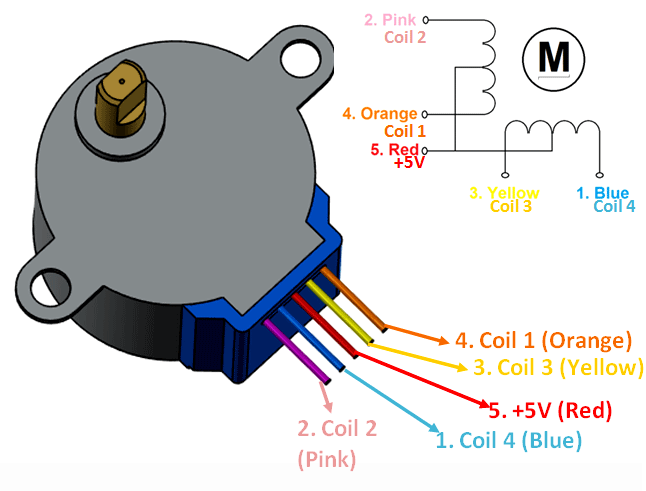
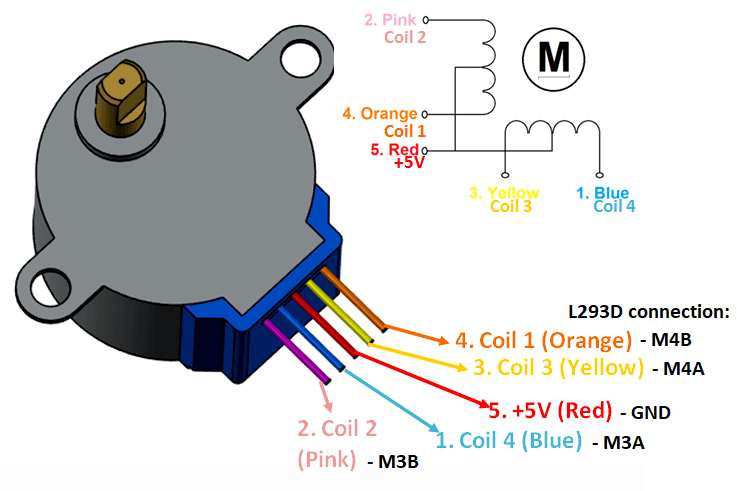
Stepper on motor shield
Repaired code for stepper
Updated motor-shield readme

diff --git a/Src/Shield_L293D.c b/Src/Shield_L293D.c
@@ -127,18 +127,18 @@ static bool _motor_595_set_stepper(int stepper_id, uint8_t nibble)
   switch(stepper_id)
   {
     case 2:
-      _m_595_value &= ~(0x01u | 0x08u | 0x02u | 0x01u);
+      _m_595_value &= ~(0x01u | 0x40u | 0x20u | 0x80u);
       if (nibble & 0x01) _m_595_value |= 0x01u;     // m3a
       if (nibble & 0x02) _m_595_value |= 0x40u;     // m3b
       if (nibble & 0x04) _m_595_value |= 0x20u;     // m4a
       if (nibble & 0x08) _m_595_value |= 0x80u;     // m4b
       break;
     case 1:
-      _m_595_value &= ~(0x04u | 0x40u | 0x20u | 0x80u);
+      _m_595_value &= ~(0x04u | 0x08u | 0x02u | 0x10u);
       if (nibble & 0x01) _m_595_value |= 0x04u;     // m1a
       if (nibble & 0x02) _m_595_value |= 0x08u;     // m1b
       if (nibble & 0x04) _m_595_value |= 0x02u;     // m2a
-      if (nibble & 0x08) _m_595_value |= 0x01u;     // m2b
+      if (nibble & 0x08) _m_595_value |= 0x10u;     // m2b
       break;
     default:
       return false;
@@ -563,3 +563,4 @@ bool motors_stepper_set_bits(int stepper, uint8_t nibble)
       return false;
   }
 }
+

diff --git a/motor_shield/README.md b/motor_shield/README.md
@@ -1,6 +1,9 @@
 # Motor shield
 
 ## Připravená knihovna (předběžně stále ve vývoji)
+
+### Práce s DC motory
+
 * **stm_core_addon.h** a **stm_core_addon.c**
   * rozšíření z "běžného" stm_core o funkce pro zjištění busclock a timerclock
   * interně používané při inicializaci časovačů
@@ -50,6 +53,31 @@
 * Nejjednodušší připojení motoru 1:
 ![Motor 1](./motorr_1_to_shield.jpg)
 
+### Práce s krokovým motorem
+* Nastavení pinů/signálů - !! POZOR, jen servo 2, tj. M3A+B a M4A+B
+```C++
+...
+  if (!motors_stepper_enable(2))    //!! only stepper 2
+  {
+    puts("Fail init stepper 2");
+    while (1)
+      ;
+  }
+```
+* Nastevení kombinace výstupů - 4 bity odpovídají 4 "koncům cívek"
+```C++
+...
+  if (!motors_stepper_set_bits(2, 0x08))    // stepper 2, bits to output 1000
+  {
+    puts("Fail set outputs to stepper");
+  }
+```
+
+* Signály/vývody krokového motoru - viz. [zdroj](https://components101.com/motors/28byj-48-stepper-motor) - upraveno pro "stepper 2"
+![Stepper Wiring](./28BYJ-48-Pinout-Wirings.png)
+* Příklad zapojení - střed cívek zapojen na GND:
+![Stepper real example](./stepmotor_to_shield.jpg)
+
 ## Další zdroje informací pro možný vlastní vývoj
 Produktové stránky na laskakit.cz:
 * [Motor shield](https://www.laskakit.cz/arduino-4-kanalovy-motor-driver-shield-l293d/)
@@ -58,7 +86,3 @@ Produktové stránky na laskakit.cz:
 * [Mikroservo kontinuální](https://www.laskakit.cz/plastove-micro-servo-sg90-9g--kontinualni/)
 * [Mikroservo](https://www.laskakit.cz/plastove-micro-servo-sg90-9g--180/)
 * [Snímač otáček](https://www.laskakit.cz/fotoelektricky-snimac-otacek/)
-
-Zapojení krokového motoru - viz. [zdroj](https://components101.com/motors/28byj-48-stepper-motor)
-
-![Stepper Wiring](./28BYJ-48-Pinout-Wirings.png)
